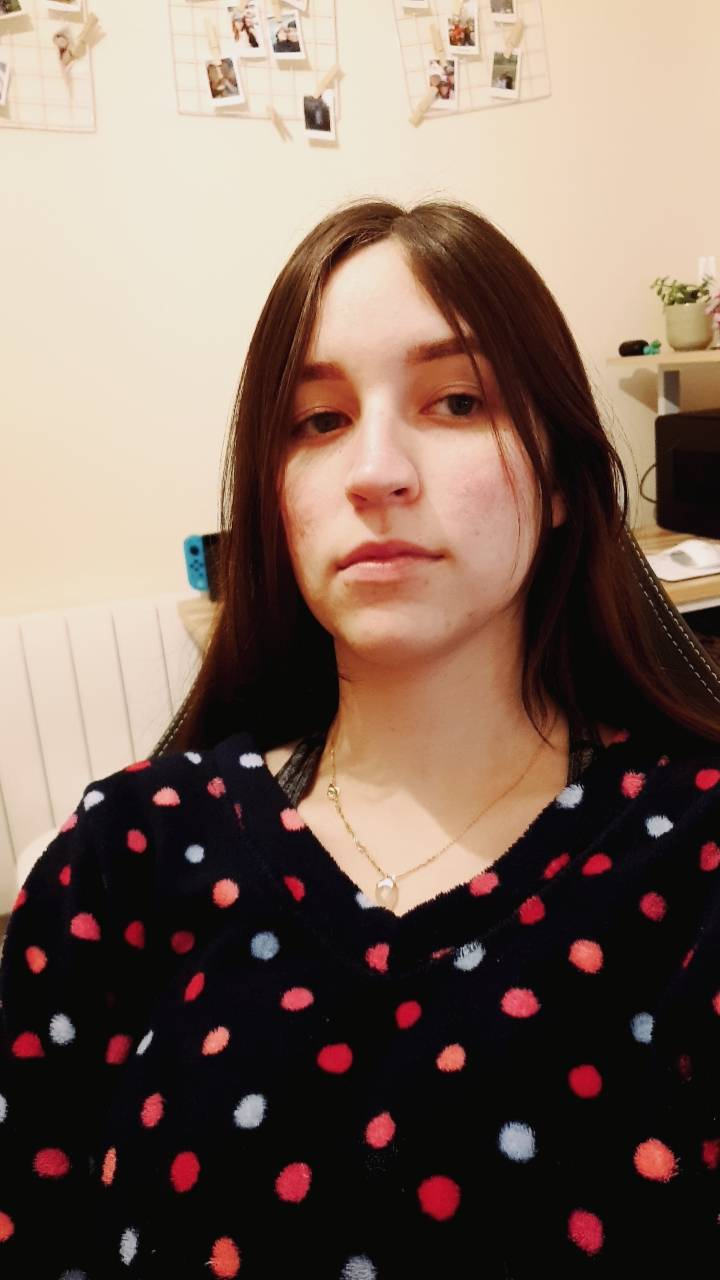
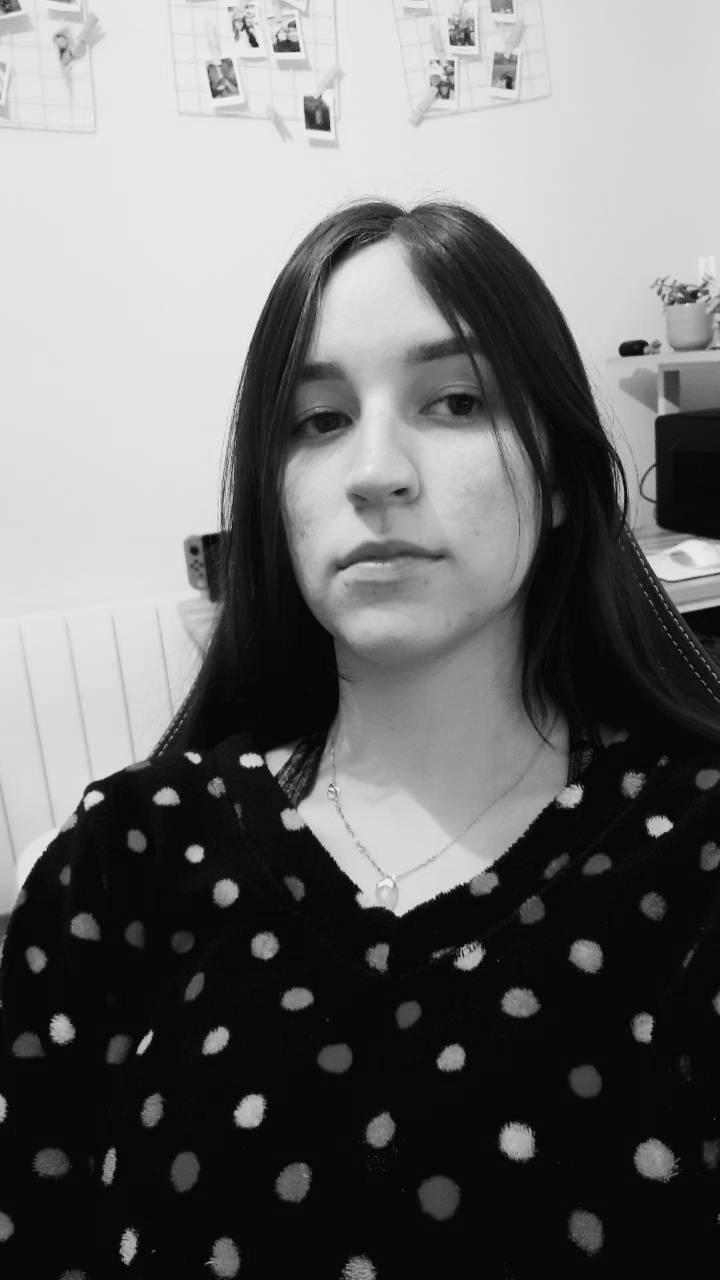
improving performance by converting to grayscale first

diff --git a/Siamese_Network.py b/Siamese_Network.py
@@ -19,9 +19,20 @@ from keras import backend as K
 from keras.applications.vgg16 import VGG16, preprocess_input, decode_predictions
 from keras.preprocessing.image import img_to_array
 import os
+from PIL import Image
 import matplotlib.pyplot as plt
 
 #%% Helper functions
+
+def rgb2gray(imagePath):
+        
+   #fname = os.path.basename(image)  
+   #basename_noExtension = os.path.splitext(fname)[0] 
+   #extension = os.path.splitext(fname)[1]
+   img = Image.open(imagePath).convert('L')
+   img.save(imagePath)
+   return imagePath
+
 def euclidean_distance(vects):
     x, y = vects
     return K.sqrt(K.maximum(K.sum(K.square(x - y), axis=1, keepdims=True), K.epsilon()))
@@ -59,7 +70,9 @@ class SiameseFaceNet(object):
         print('encoding: ', image_path)
         if self.vgg16_model is None:
             self.vgg16_model = self.create_vgg16_model()
-
+    
+        rgb2gray(image_path) # better results if grayscale
+    
         image = cv2.imread(image_path, 1)
         img = cv2.resize(image, (224, 224), interpolation=cv2.INTER_AREA)
         input = img_to_array(img)
@@ -300,7 +313,7 @@ class SiameseFaceNet(object):
    
 #%% Main Function 
 def main():
-	
+
     # From class above
     fnet = SiameseFaceNet() 
 
@@ -310,23 +323,24 @@ def main():
     KnownImages_dir_path = "./data/Known-Images"
     UnknownImages_dir_path = "./data/To-Verify"
        
+
     # Encodings of People to verify against
     database = dict()
     database["lorenzo"] = [fnet.img_to_encoding(KnownImages_dir_path + "/lorenzo.jpg")]
     database["karianne"] = [fnet.img_to_encoding(KnownImages_dir_path + "/karianne.jpg")]
     database["karianne2"] = [fnet.img_to_encoding(KnownImages_dir_path + "/karianne2.jpg")]
-    database["googleguy"] = [fnet.img_to_encoding(KnownImages_dir_path + "/bertrand.jpg")]
-
+    
     # Images to test
     knownImage = KnownImages_dir_path + "/lorenzo.jpg"
-    unknownImage = UnknownImages_dir_path + "/person2.jpg"
+    unknownImage = UnknownImages_dir_path + "/person2_hard.jpg"
+    rgb2gray(unknownImage)
     knownImage_float = cv2.imread(knownImage)
     unknownImage_float = cv2.imread(unknownImage) 
     knownImage_dictionaryName = os.path.basename(knownImage)  
     knownImage_dictionaryName = os.path.splitext(knownImage_dictionaryName)[0]             
     
     # Verify if image is that person in the database
-    dist, is_valid = fnet.verify(unknownImage, knownImage_dictionaryName, database, 0.20)
+    dist, is_valid = fnet.verify(unknownImage, knownImage_dictionaryName, database, 0.15)
     if (is_valid):
 	        veredict = 'Yes'
     else:

diff --git a/rgb2greyscale.py b/rgb2greyscale.py
@@ -1,0 +1,26 @@
+# -*- coding: utf-8 -*-
+"""
+Created on Tue Feb 18 09:57:59 2020
+@author: loren
+
+Description: converting rgb images to greyscale and saving them
+"""
+
+from PIL import Image
+import os
+
+def rgb2gray(path,image):
+        
+   #fname = os.path.basename(image)  
+   #basename_noExtension = os.path.splitext(fname)[0] 
+   #extension = os.path.splitext(fname)[1]
+   img = Image.open(path + image).convert('L')
+   img.save(path + image)	
+	
+
+KnownImages_dir_path = "./data/Known-Images"
+UnknownImages_dir_path = "./data/To-Verify"
+rgb2gray(UnknownImages_dir_path,'/person3.jpg')
+
+
+
